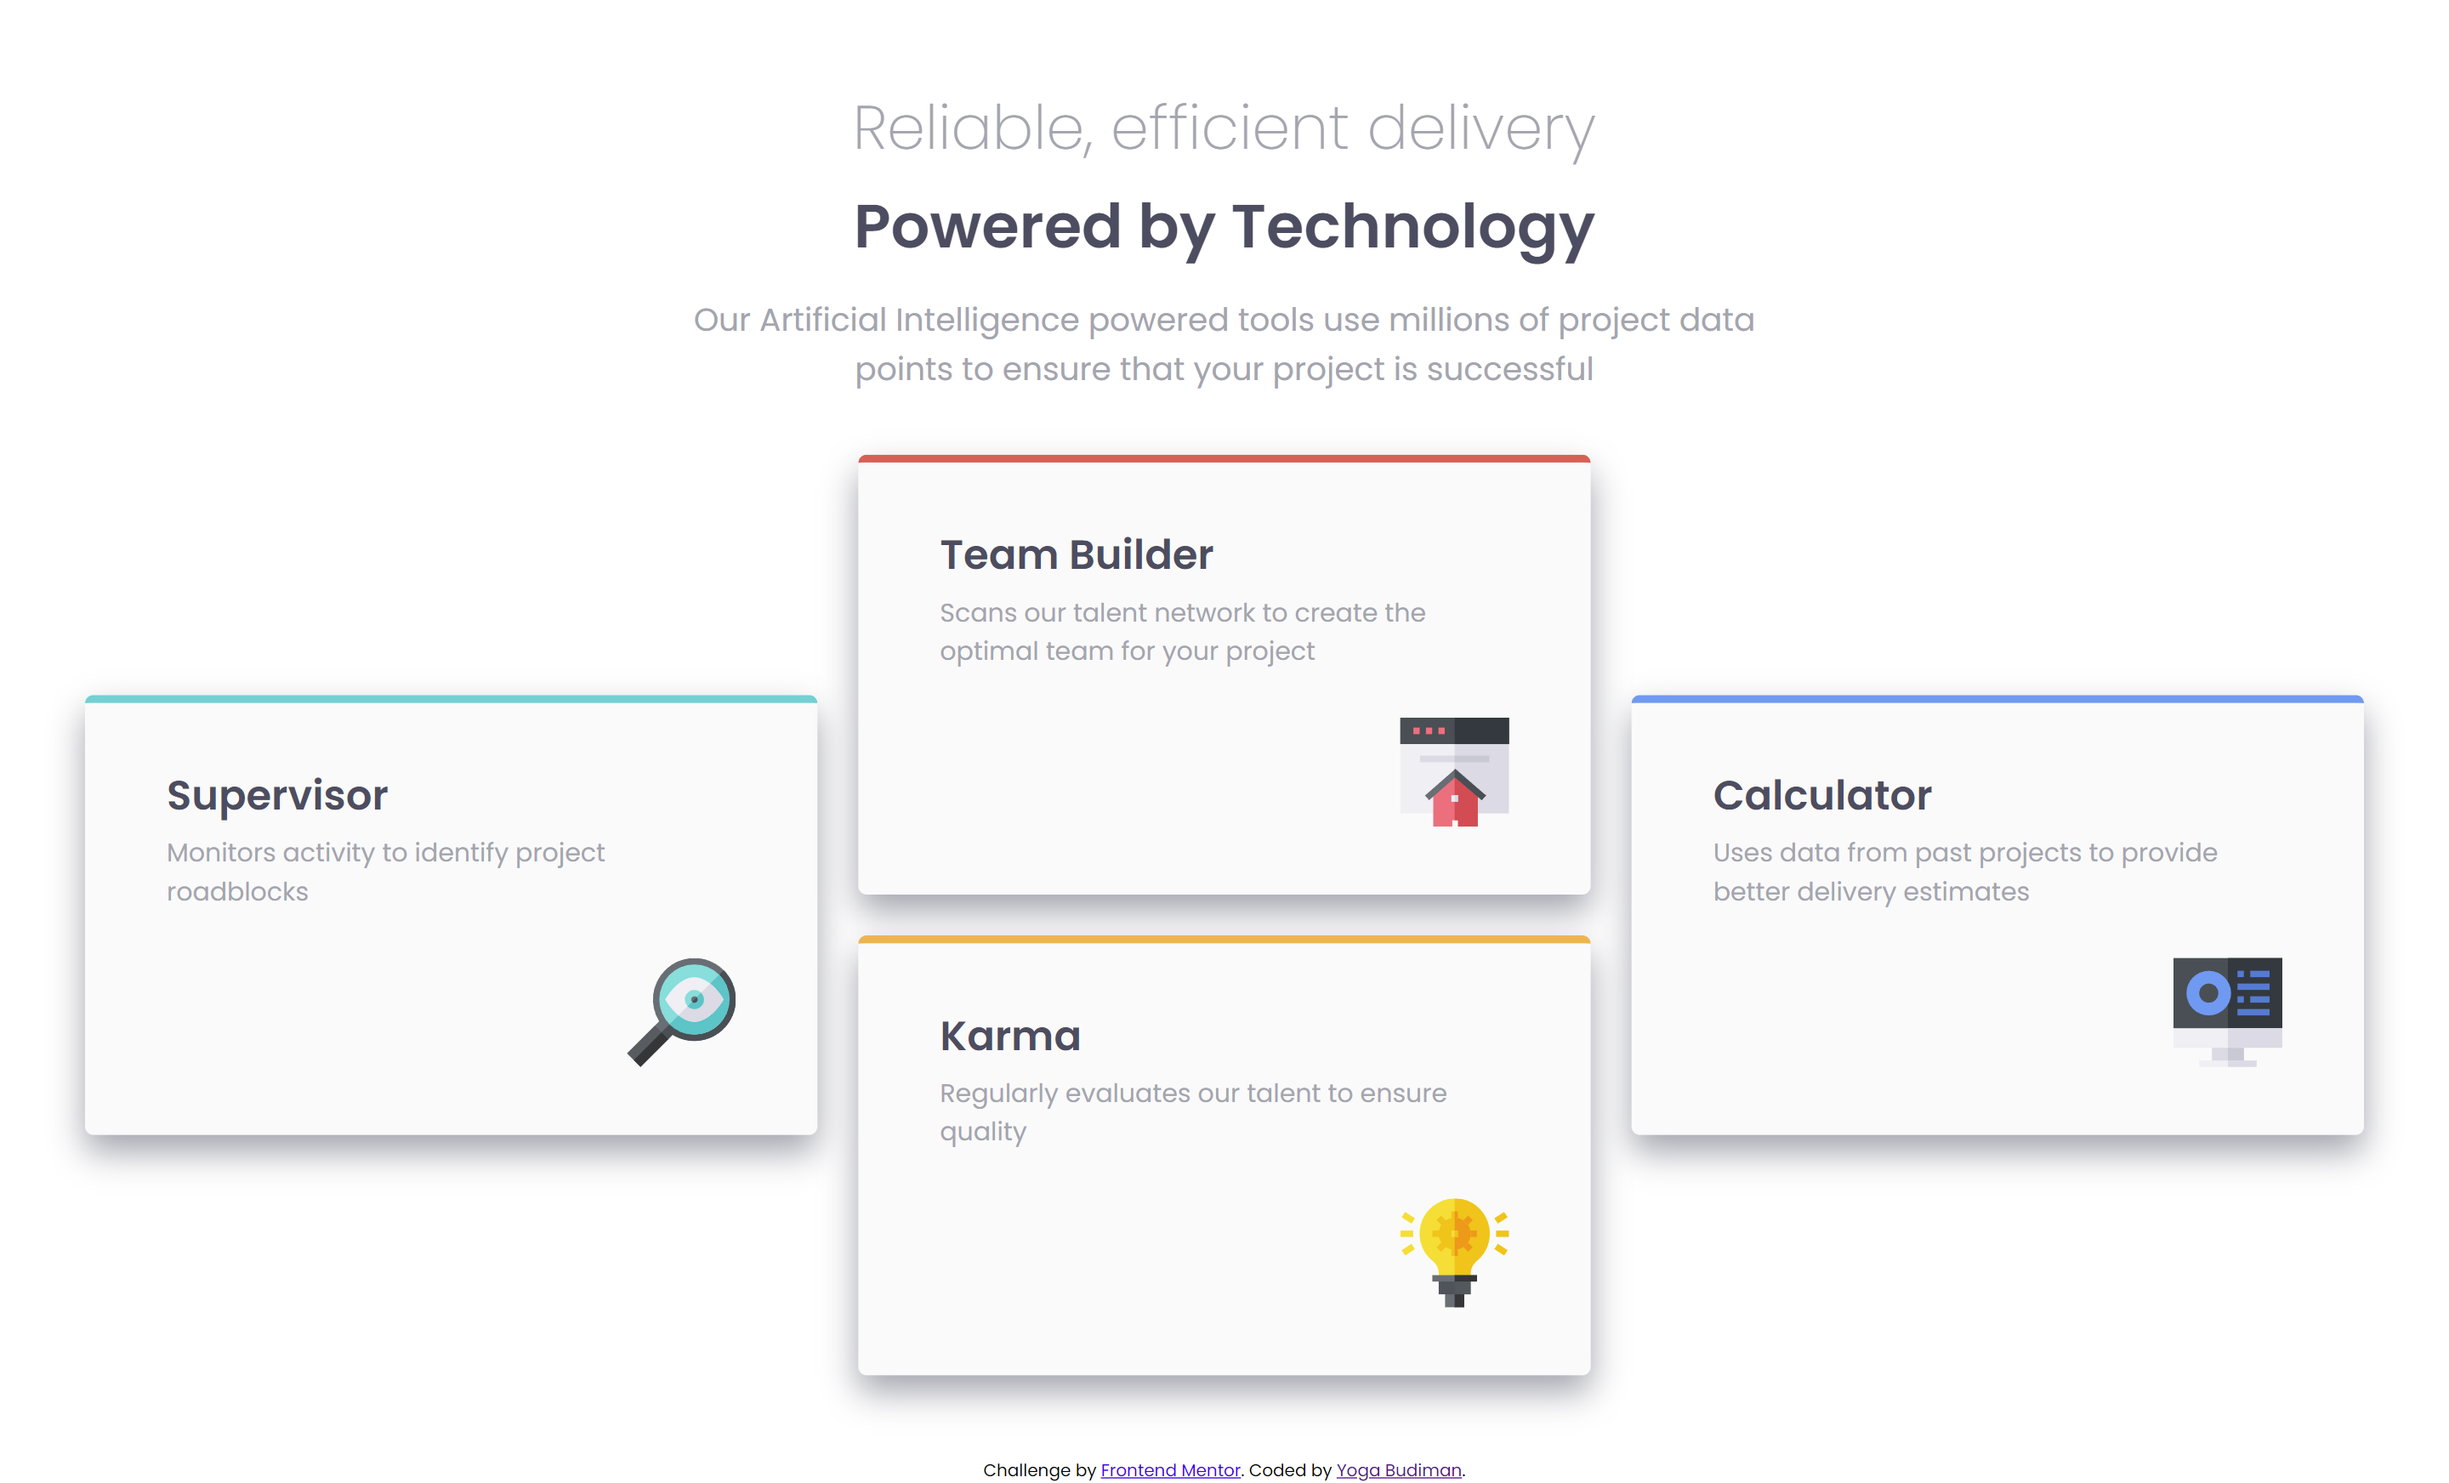
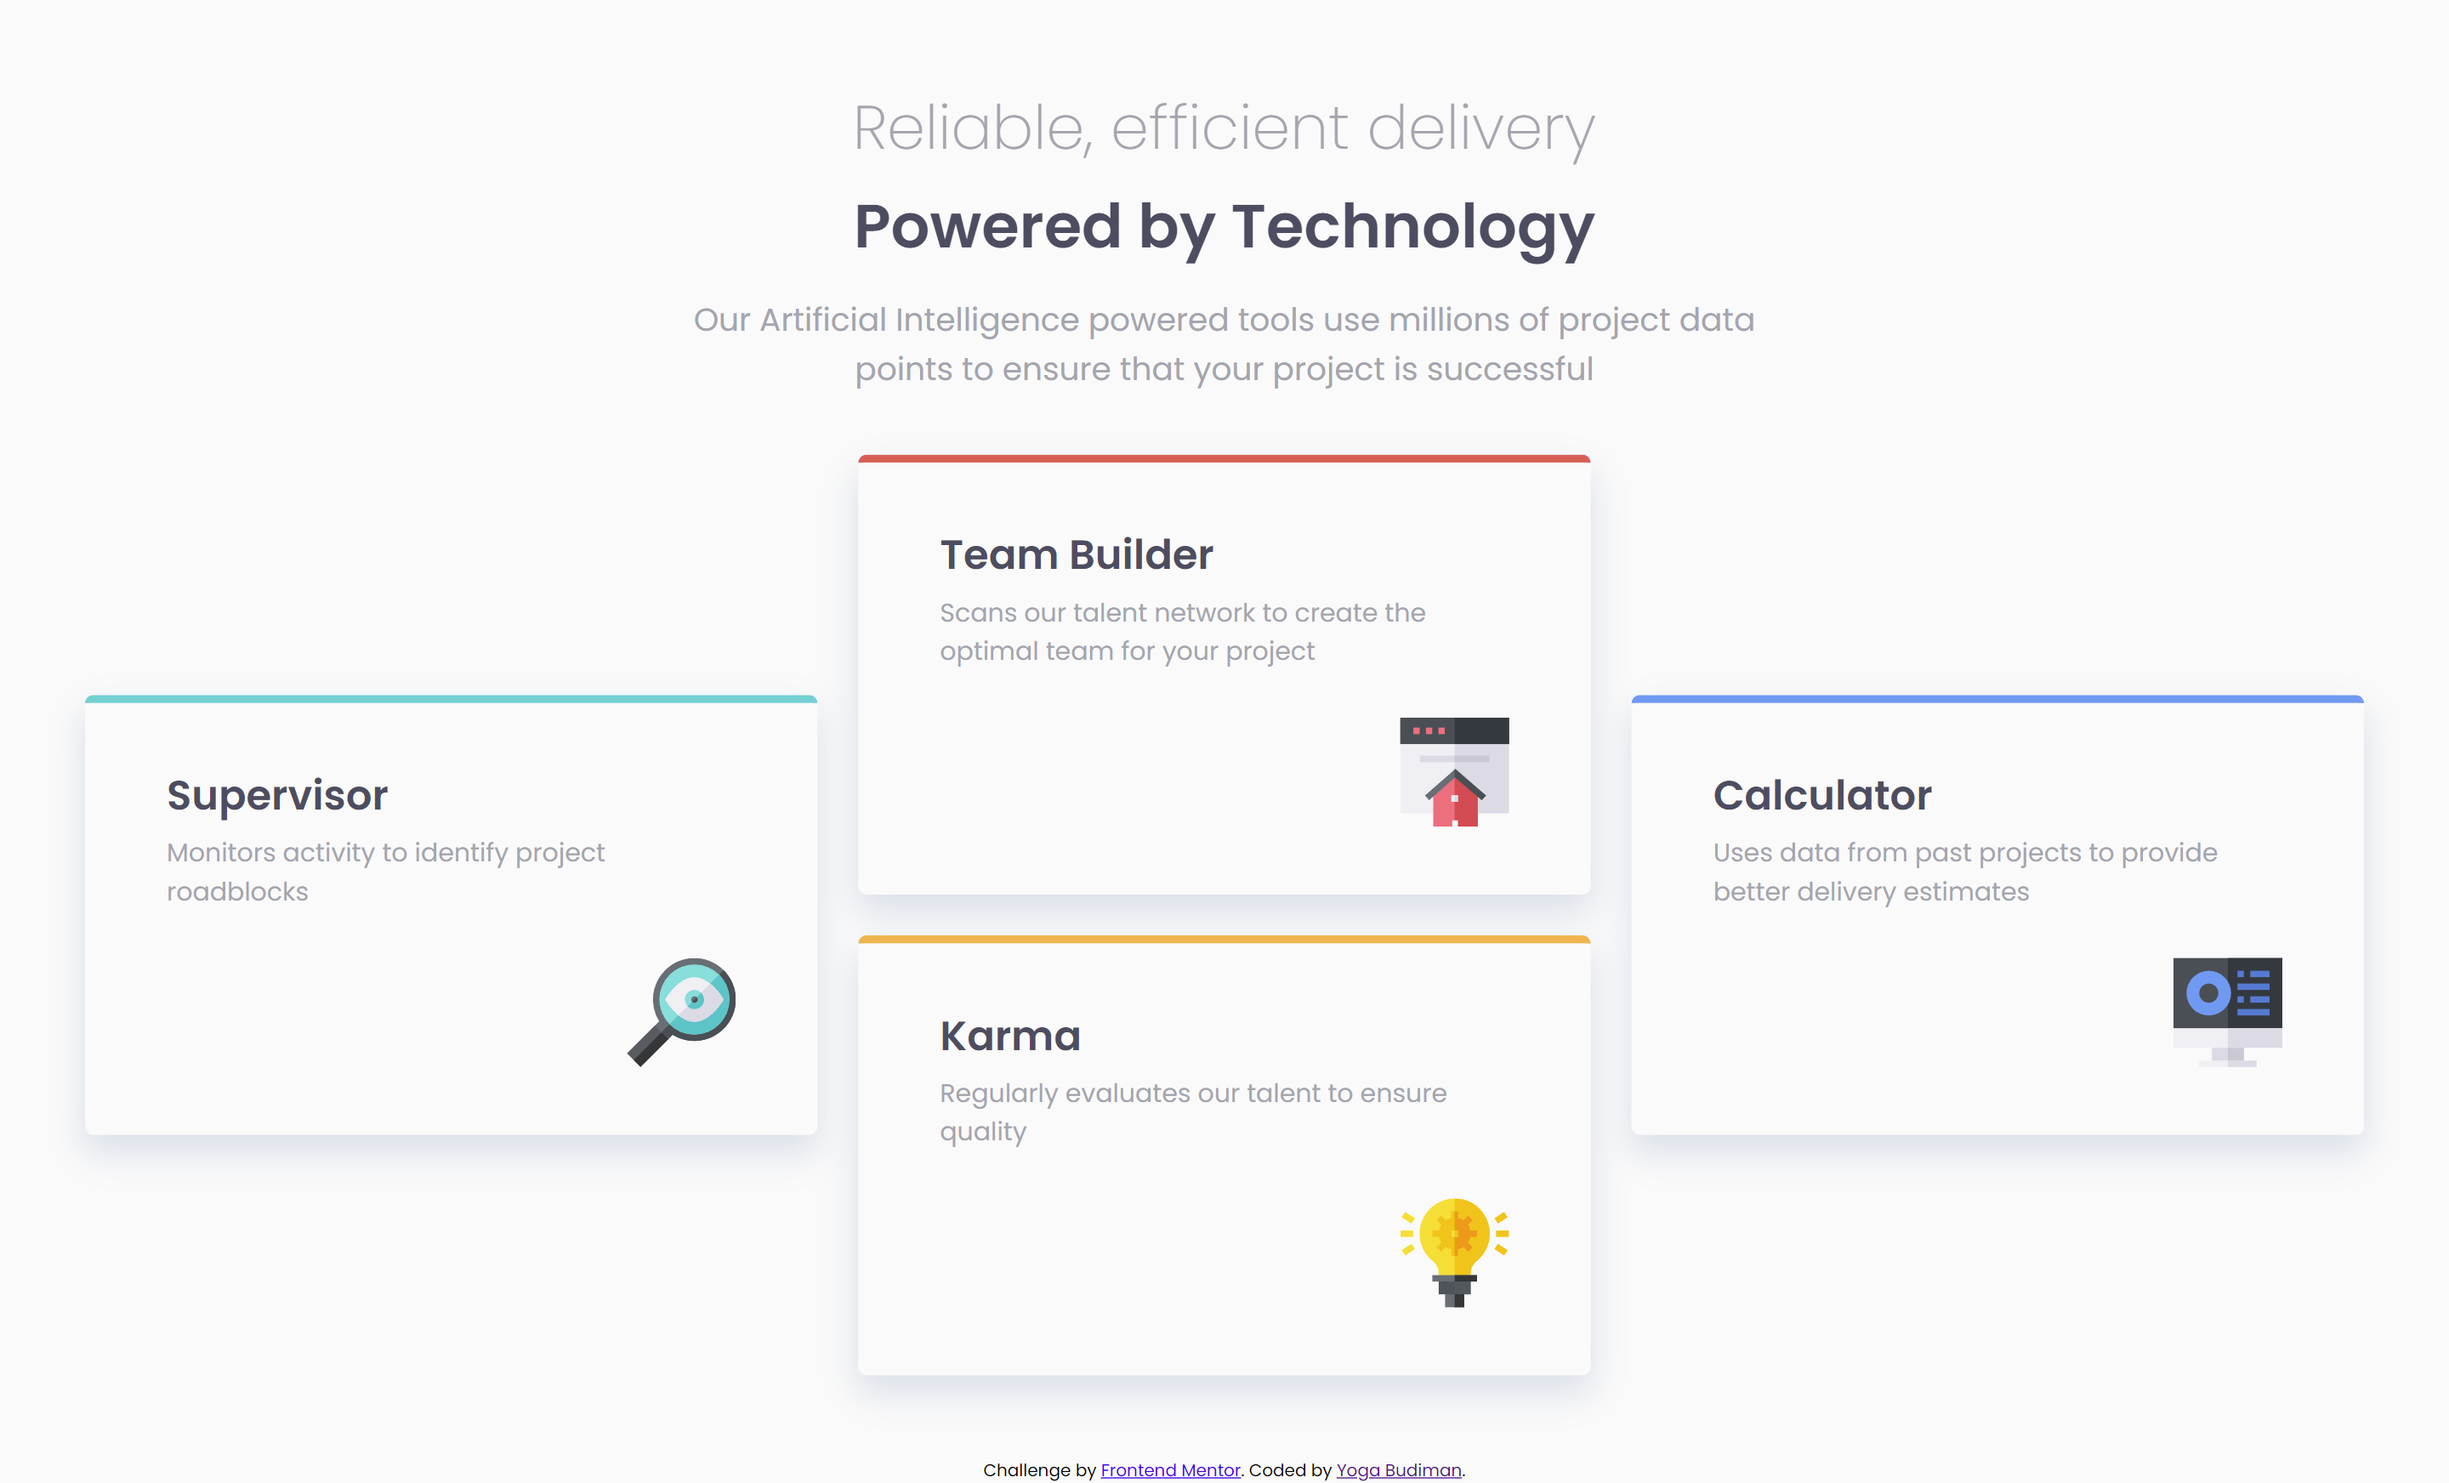
Update ss and box-shadow

diff --git a/style.css b/style.css
@@ -25,6 +25,7 @@ html {
 body {
   font-family: "Poppins", sans-serif;
   font-weight: var(--fw-normal);
+  background-color: var(--neutral-lighter-gray);
 }
 
 .flex {
@@ -84,7 +85,9 @@ body {
   border-radius: 5px;
   background-color: var(--neutral-lighter-gray);
 
-  box-shadow: 0 1rem 2rem var(--neutral-grayish-blue);
+  /* box-shadow: 0 1rem 2rem var(--neutral-grayish-blue); */
+  /* from feedback */
+  box-shadow: 0 1rem 2rem 0.1rem hsla(210, 28%, 78%, 0.5);
 }
 
 .feature--supervisor {
